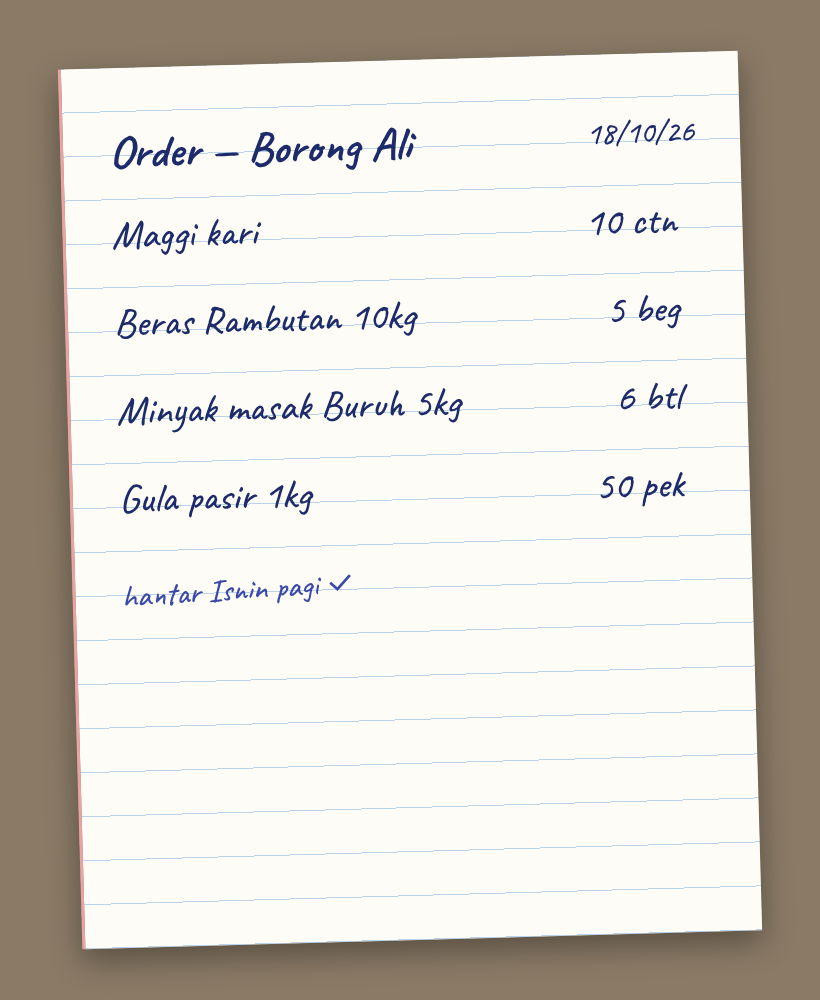
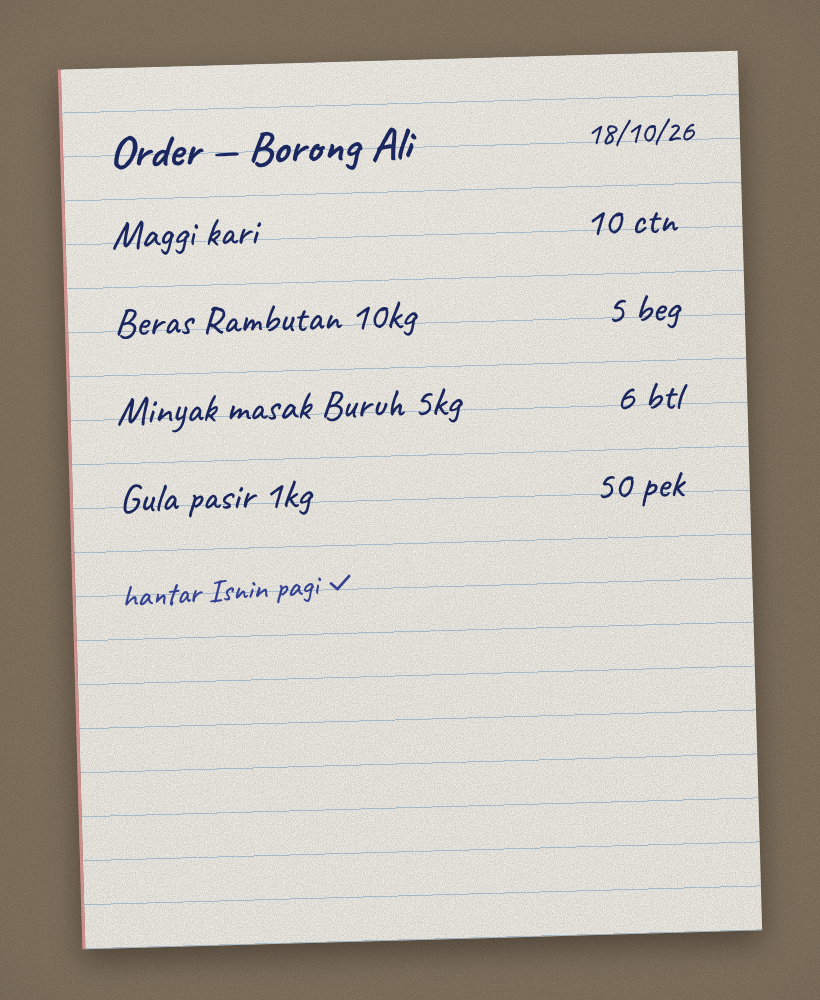
Scan sheet redesign, photo-realistic sample documents, fixture cache at boot
- One clean row per document type with its own 'Taip' action; samples behind one row, with thumbnails.
- Sample documents now look like phone photos of real paper (still synthetic content).
- Fixture reads are cached at every boot so regenerated fixtures work after a redeploy.

Claude-Session: https://claude.ai/code/session_01AHZtQFX1ybNB4t9UAgVggR

diff --git a/client/src/pages/scan.tsx b/client/src/pages/scan.tsx
@@ -1,6 +1,6 @@
 import { useEffect, useRef, useState } from 'react';
 import { useLocation } from 'wouter';
-import { Camera, FileUp, FileText, ReceiptText, Truck, Paperclip, PenLine, Sparkles } from 'lucide-react';
+import { Camera, ChevronLeft, ChevronRight, FileUp, FileText, ReceiptText, Truck, Paperclip, PenLine, Sparkles } from 'lucide-react';
 import { toast } from 'sonner';
 import { Sheet, SheetContent } from '@/components/ui/sheet';
 import { Button } from '@/components/ui/button';
@@ -50,6 +50,7 @@ export default function Scan() {
   const [pct, setPct] = useState(0);
   const [thumb, setThumb] = useState<string | null>(null);
   const [note, setNote] = useState(false);
+  const [samples, setSamples] = useState(false);
   const snap = useRef<HTMLInputElement>(null);
   const file = useRef<HTMLInputElement>(null);
   useEffect(() => () => { if (thumb) URL.revokeObjectURL(thumb); }, [thumb]);
@@ -86,39 +87,48 @@ export default function Scan() {
   return (
     <Page title={kind ? t(kinds.find(k => k.id === kind)!.key) : t('nav.scan')}>
       <Sheet open={!kind} onOpenChange={o => { if (!o) nav('/'); }}>
-        <SheetContent title={t('scan.what')}>
-          <div className="overflow-hidden rounded-card bg-surface shadow-card">
-            {kinds.map(k => (
-              <button key={k.id} type="button" onClick={() => choose(k.id)} className="press flex min-h-16 w-full items-center gap-4 border-t border-line px-4 py-3 text-left first:border-t-0 [@media(hover:hover)]:hover:bg-surface-2/60">
-                <span className="flex h-10 w-10 shrink-0 items-center justify-center rounded-[12px] bg-brand-text/10 text-brand-text" aria-hidden><k.icon size={22} strokeWidth={1.75} /></span>
-                <span className="min-w-0"><span className="block text-base font-medium leading-5">{t(k.key)}</span><span className="block text-sm text-ink-2">{t(k.hint)}</span></span>
+        <SheetContent title={samples ? t('scan.samples') : t('scan.what')}>
+          {!samples ? (
+            <>
+              <div className="overflow-hidden rounded-card bg-surface shadow-card">
+                {kinds.map(k => (
+                  <div key={k.id} className="flex items-stretch border-t border-line first:border-t-0">
+                    <button type="button" onClick={() => choose(k.id)} className="press flex min-h-16 min-w-0 flex-1 items-center gap-4 px-4 py-3 text-left [@media(hover:hover)]:hover:bg-surface-2/60">
+                      <span className="flex h-10 w-10 shrink-0 items-center justify-center rounded-[12px] bg-brand-text/10 text-brand-text" aria-hidden><k.icon size={22} strokeWidth={1.75} /></span>
+                      <span className="min-w-0"><span className="block text-base font-medium leading-5">{t(k.key)}</span><span className="block truncate text-sm text-ink-2">{t(k.hint)}</span></span>
+                    </button>
+                    {k.id !== 'bon' && (
+                      <button type="button" onClick={() => nav(`/review/${k.id}/new`)} aria-label={`${t('scan.type')} · ${t(k.key)}`}
+                        className="press flex w-[68px] shrink-0 flex-col items-center justify-center gap-1 border-l border-line text-xs font-medium text-brand-text [@media(hover:hover)]:hover:bg-surface-2/60">
+                        <PenLine size={18} strokeWidth={1.75} aria-hidden />{t('scan.type')}
+                      </button>
+                    )}
+                  </div>
+                ))}
+              </div>
+              <button type="button" onClick={() => setSamples(true)} className="press mt-3 flex min-h-12 w-full items-center gap-3 rounded-card px-4 text-left text-sm font-medium text-ink-2 [@media(hover:hover)]:hover:bg-surface/60">
+                <Sparkles size={18} className="text-brand-text" aria-hidden /><span className="flex-1">{t('scan.samples')}</span><ChevronRight size={18} aria-hidden />
               </button>
-            ))}
-          </div>
-          <div className="mt-4 rounded-card border border-brand-text/30 bg-brand-text/[.06] p-3">
-            <p className="mb-2 text-sm font-semibold text-ink">{t('scan.noPhoto')}</p>
-            <div className="grid grid-cols-1 gap-2 sm:grid-cols-3">
-              {(['po', 'invoice', 'delivery'] as const).map(k => (
-                <Button key={k} type="button" variant="secondary" block className="h-auto min-h-12 whitespace-normal py-2 text-center leading-5" onClick={() => nav(`/review/${k}/new`)}><PenLine size={16} aria-hidden />{t('scan.manual')} · {t(kinds.find(x => x.id === k)!.key)}</Button>
-              ))}
-            </div>
-          </div>
-          <details className="mt-3 rounded-card bg-surface p-3" open>
-            <summary className="flex min-h-11 cursor-pointer items-center gap-2 text-sm font-semibold text-ink"><Sparkles size={16} className="text-brand-text" aria-hidden />{t('scan.samples')}</summary>
-            <p className="mb-2 text-xs text-ink-2">{t('scan.samplesHint')}</p>
-            <div className="space-y-3">
+            </>
+          ) : (
+            <div className="space-y-4">
+              <button type="button" onClick={() => setSamples(false)} className="press -ml-2 inline-flex min-h-11 items-center gap-1 rounded-btn px-2 text-sm font-medium text-ink-2"><ChevronLeft size={18} aria-hidden />{t('common.back')}</button>
               {kinds.map(k => (
-                <div key={k.id}>
+                <section key={k.id}>
                   <p className="eyebrow mb-1">{t(k.key)}</p>
-                  <div className="flex flex-wrap gap-2">
+                  <div className="overflow-hidden rounded-card bg-surface shadow-card">
                     {SAMPLES[k.id].map(sm => (
-                      <button key={sm.file + k.id} type="button" disabled={busy} onClick={() => void useSample(k.id, sm.file)} className="press inline-flex min-h-11 items-center rounded-full bg-surface-2 px-3 text-sm font-medium text-ink ring-1 ring-white/10">{lang === 'ms' ? sm.ms : sm.en}</button>
+                      <button key={sm.file + k.id} type="button" disabled={busy} onClick={() => void useSample(k.id, sm.file)} className="press flex min-h-16 w-full items-center gap-3 border-t border-line px-4 py-2 text-left first:border-t-0">
+                        <img src={`/api/samples/${sm.file}`} alt="" loading="lazy" className="h-12 w-10 shrink-0 rounded-md bg-surface-2 object-cover object-top ring-1 ring-white/10" />
+                        <span className="min-w-0 flex-1 text-sm font-medium leading-5">{lang === 'ms' ? sm.ms : sm.en}</span>
+                        <ChevronRight size={16} className="shrink-0 text-ink-3" aria-hidden />
+                      </button>
                     ))}
                   </div>
-                </div>
+                </section>
               ))}
             </div>
-          </details>
+          )}
         </SheetContent>
       </Sheet>
 

diff --git a/client/src/i18n/ms.ts b/client/src/i18n/ms.ts
@@ -218,7 +218,7 @@ export const ms = {
   'act.unknown': 'Aktiviti',
   'home.qa.orders': 'Pesanan',
   'ev.compareBon': 'Pesanan berbanding bon',
-  'scan.attach.hint': 'Lampirkan pada invois yang sudah ada',
+  'scan.attach.hint': 'Pada invois sedia ada',
   'compare.colPo': 'PO',
   'compare.colDo': 'BON',
   'compare.colInv': 'INV',
@@ -503,7 +503,6 @@ export const ms = {
   'settings.payloadNote': "Inilah data tepat yang akan dihantar kepada rakan perakaunan apabila sambungan sebenar dikonfigurasikan. Skema draf, bukan kontrak sebenar.",
   'settings.handoffFail': "Serahan gagal: rakan perakaunan tidak menerima data.",
   'scan.noPhoto': "Tiada gambar? Taip terus",
-  'scan.samples': "Fail contoh untuk dicuba",
   'scan.samplesHint': "Dokumen sintetik. Ketik satu untuk mengimbasnya terus, tanpa perlu gambar sendiri.",
   'flag.waHelp': "WhatsApp tidak terbuka? Ketik Salin mesej, kemudian tampal dalam sembang pembekal.",
   'flag.waNumber': "Nombor WhatsApp pembekal",
@@ -518,5 +517,7 @@ export const ms = {
   'einv.submittedRibbon': "Dihantar ke LHDN ({env})",
   'settings.adjustments': "Muat turun pelarasan pembekal (CSV)",
   'settings.adjustmentsNote': "Satu baris bagi setiap tuntutan yang diterima pembekal. Format umum: petakan lajur semasa mengimport ke AutoCount / SQL Account / Bukku.",
+  'scan.type': "Taip",
+  'scan.samples': "Cuba fail contoh",
 } as const;
 export type Key = keyof typeof ms;

diff --git a/client/src/i18n/en.ts b/client/src/i18n/en.ts
@@ -219,7 +219,7 @@ export const en: Record<Key, string> = {
   'act.unknown': 'Activity',
   'home.qa.orders': 'Orders',
   'ev.compareBon': 'Order vs delivery order',
-  'scan.attach.hint': 'Attach to an invoice you already saved',
+  'scan.attach.hint': 'To a saved invoice',
   'compare.colPo': 'PO',
   'compare.colDo': 'DO',
   'compare.colInv': 'INV',
@@ -504,7 +504,6 @@ export const en: Record<Key, string> = {
   'settings.payloadNote': "The exact data that would go to the accounting partner once a real connection is configured. Draft schema, not a real contract.",
   'settings.handoffFail': "Handoff failed: the accounting partner did not accept the data.",
   'scan.noPhoto': "No photo? Type it in",
-  'scan.samples': "Sample files to try",
   'scan.samplesHint': "Synthetic documents. Tap one to scan it straight away, no photo of your own needed.",
   'flag.waHelp': "WhatsApp did not open? Tap Copy message, then paste it into the supplier's chat.",
   'flag.waNumber': "Supplier WhatsApp number",
@@ -519,4 +518,6 @@ export const en: Record<Key, string> = {
   'einv.submittedRibbon': "Submitted to LHDN ({env})",
   'settings.adjustments': "Download supplier adjustments (CSV)",
   'settings.adjustmentsNote': "One row per claim the supplier accepted. Generic format: map the columns when importing into AutoCount / SQL Account / Bukku.",
+  'scan.type': "Type",
+  'scan.samples': "Try sample files",
 };

diff --git a/server/seed.ts b/server/seed.ts
@@ -140,6 +140,18 @@ async function seedInTx(db: Db, storage: Storage, now: number, opts: { quiet?: b
   if (!opts.quiet) console.log(`[seed] ok: ${seed.suppliers.length} suppliers, ${seed.purchaseOrders.length} POs, ${seed.invoices.length} invoices, ${seed.flags.length} flags, ${pngs.length} fixtures`);
 }
 
+/** Fixture reads cached by sha256 so sample documents never need a live Gemini call. Idempotent: run at every boot, so a redeploy with regenerated fixtures keeps working without a demo reset. */
+export async function ensureFixtureCache(db: Db) {
+  const dir = path.join(FX(), 'docs');
+  let n = 0;
+  for (const f of readdirSync(dir).filter(x => x.endsWith('.png'))) {
+    const expected = JSON.parse(readFileSync(path.join(dir, f.replace(/\.png$/, '.expected.json')), 'utf8'));
+    const r = await db.insert(S.extractions).values({ sha256: cacheKey(readFileSync(path.join(dir, f))), model: 'fixture', doc: expected }).onConflictDoNothing().returning({ sha: S.extractions.sha256 });
+    n += r.length;
+  }
+  return n;
+}
+
 export async function seedIfEmpty(db: Db, storage: Storage) {
   const [r] = await db.select({ n: sql<number>`count(*)::int` }).from(S.suppliers);
   if (r.n === 0) await seedDatabase(db, storage);

diff --git a/server/index.ts b/server/index.ts
@@ -6,7 +6,7 @@ import compression from 'compression';
 import { createApp, mountErrorHandlers } from './app';
 import { getDb } from './db';
 import { makeStorage } from './storage';
-import { seedIfEmpty } from './seed';
+import { ensureFixtureCache, seedIfEmpty } from './seed';
 import { upgradeSchema } from './schema-upgrade';
 import { getPins } from './auth';
 
@@ -31,6 +31,7 @@ async function main() {
   if (process.env.SEED_ON_BOOT === '1') {
     try { await seedIfEmpty(db, storage); } catch (e) { console.error('[seed] failed, continuing without it:', (e as Error).message); }
   }
+  if (process.env.DEMO_FIXTURES === '1' || process.env.NODE_ENV !== 'production') await ensureFixtureCache(db).then(n => n && console.log(`[fixtures] cached ${n} sample read(s)`)).catch(e => console.error('[fixtures] cache skipped:', (e as Error).message));
   for (const k of ['GEMINI_API_KEY', 'DEMO_FIXTURES', 'PUBLIC_BASE_URL']) if (!process.env[k]) console.warn(`[config] ${k} is not set`);
 
   const app = createApp({ db, storage }, [compression()]);

diff --git a/docs/DECISIONS_LOG.md b/docs/DECISIONS_LOG.md
@@ -56,3 +56,4 @@
 - 2026-10-24 · Claude · ROUND 3 (limits closed): partial acceptance now creates a child DISPUTED flag for the unrecovered balance (flags.parent_flag_id; unique index renamed flags_invoice_line_type_root_uq and excludes children); delivery-stage settle rejects acceptedSen; the draft preview groups exactly like the real send; seeded LB-7781 has synthetic invoice + bon fixtures (generated with fixtures/_generator, existing fixtures untouched); accounting handoff now has a typed payload built from supplierLedger, a signed-webhook connector that stays OFF unless ACCOUNTING_WEBHOOK_URL (https) and ACCOUNTING_WEBHOOK_SECRET are set, and a payload preview in Settings. Still a SIMULATION by default: a real Orbyte/accounting push needs the partner's API contract (schema 'tepat-bill.accounting.v0-draft' is ours, not theirs).
 - 2026-10-24 · Claude · USER FEEDBACK ROUND: (1) BM|EN switch on every screen header incl. both homes (components/lang-switch.tsx). (2) Scan sheet: "Taip sendiri" is now a visible boxed section, plus "Fail contoh" chips per scan type that upload the synthetic fixtures straight away (GET /api/samples/:file, whitelisted, signed-in only). (3) WhatsApp: opens from the tap handler via window.open (fallback same tab), sheet closes after 600 ms (unmounting the link mid-click cancelled it on mobile), supplier number input in the sheet (validated, remembered on the supplier), help line pointing at Copy. (4) E-invoice: approved drafts download as MyInvois UBL 2.1 JSON (type 11, v1.0, foreign supplier TIN EI00000000030) and can be SUBMITTED to LHDN when MYINVOIS_CLIENT_ID + MYINVOIS_CLIENT_SECRET are set (sandbox by default; MYINVOIS_ENV=production on purpose; MYINVOIS_ONBEHALFOF optional). Field names/endpoints come from our research of the SDK and are NOT yet proven against the live LHDN sandbox (no network from the build sandbox): first sandbox submission must be checked by a human. (5) Accounting: generic supplier-adjustments CSV (our header names, map on import). Orbyte has no public API we could find: keep the pitch wording "designed to plug into Orbyte".
 - 2026-10-24 · Claude · REDEPLOY BREAKAGE: new columns (received_counts.source, flags.needs_recheck/parent_flag_id/accepted_sen/settlement_ref/settlement_note, einvoice_drafts.submission) + the renamed flag unique index were never applied to the Replit DB, so every query selecting them failed after the redeploy. Fix: `server/schema-upgrade.ts` runs idempotent ADD COLUMN IF NOT EXISTS / CREATE INDEX IF NOT EXISTS at EVERY boot (before seeding); a test rebuilds the old table shapes and proves the upgrade. Still run `npm run db:push` when adding NEW TABLES; add new columns to UPGRADES as well.
+- 2026-10-24 · Claude · SAMPLES + SCAN SHEET: all sample documents regenerated to look like phone photos of real paper (desk, perspective, rotation, paper grain, vignette; fixtures/_generator/docs.mjs `realistic()`); the WhatsApp order stays a screenshot. They are still SYNTHETIC businesses and numbers (no real company documents are used), only the look is real. Fixture reads are cached by sha256 at EVERY boot (`ensureFixtureCache`), so regenerated fixtures work after a redeploy without a demo reset. Scan sheet redesigned: one row per document type with a separate "Taip" action on the right (no wrapped pill buttons, no explanatory paragraphs); sample files live behind one quiet "Cuba fail contoh" row and show thumbnails.
